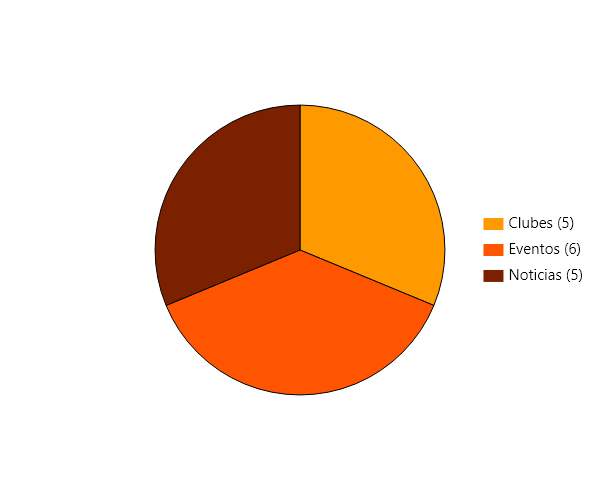
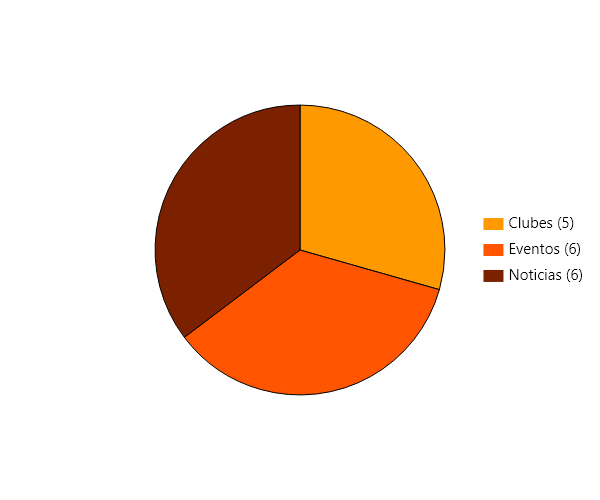
Crear Evento / Crear Noticia CORRECTOSSSSS

Changed region(s): [[0.27, 0.51, 0.48, 0.69], [0.48, 0.48, 0.75, 0.63]]

diff --git a/ReadRate_e4Gen/WebApplication-ReadRate/Controllers/EventoController.cs b/ReadRate_e4Gen/WebApplication-ReadRate/Controllers/EventoController.cs
@@ -148,25 +148,22 @@ namespace WebApplication_ReadRate.Controllers
             {
                 ModelState.Remove("Foto");
                 ModelState.Remove("FotoFichero");
+                ModelState.Remove("AdminPublicadorID"); // Remover validación ya que se asigna automáticamente
+                ModelState.Remove("AforoActual"); // Remover validación ya que se asigna automáticamente
 
                 if (ModelState.IsValid)
                 {
-                    // Validación de AdminPublicadorId
-                    if (!eventoVM.AdminPublicadorID.HasValue || eventoVM.AdminPublicadorID.Value <= 0)
+                    // Obtener el ID del administrador desde la sesión
+                    var usuarioId = HttpContext.Session.GetInt32("UsuarioId");
+                    if (!usuarioId.HasValue)
                     {
-                        ModelState.AddModelError("AdminPublicadorID", "Ha habido un error, el administrador no existe o tiene ID incorrecto");
-                        RecargarAdministradores();
+                        ModelState.AddModelError("", "Debe iniciar sesión como administrador para crear eventos");
                         return View(eventoVM);
                     }
-
-                    // VALIDACIÓN: Aforo actual no puede ser mayor que aforo máximo
-                    if (eventoVM.AforoActual.HasValue && eventoVM.AforoMaximo.HasValue && 
-                        eventoVM.AforoActual.Value > eventoVM.AforoMaximo.Value)
-                    {
-                        ModelState.AddModelError("AforoActual", $"El aforo actual ({eventoVM.AforoActual.Value}) no puede ser mayor que el aforo máximo ({eventoVM.AforoMaximo.Value})");
-                        RecargarAdministradores();
-                        return View(eventoVM);
-                    }
+                    
+                    // Asignar automáticamente el administrador actual y aforo actual a 0
+                    eventoVM.AdminPublicadorID = usuarioId.Value;
+                    eventoVM.AforoActual = 0;
 
                     // MANEJO DEL ARCHIVO DE FOTO
                     if (eventoVM.FotoFichero != null && eventoVM.FotoFichero.Length > 0)

diff --git a/ReadRate_e4Gen/WebApplication-ReadRate/Controllers/NoticiaController.cs b/ReadRate_e4Gen/WebApplication-ReadRate/Controllers/NoticiaController.cs
@@ -107,13 +107,16 @@ namespace WebApplication_ReadRate.Controllers
 
                 if (ModelState.IsValid)
                 {
-                    // Validación de AdminPublicadorId
-                    if (!noticiaVM.AdminPublicadorID.HasValue || noticiaVM.AdminPublicadorID.Value <= 0)
+                    // Obtener el ID del administrador desde la sesión
+                    var usuarioId = HttpContext.Session.GetInt32("UsuarioId");
+                    if (!usuarioId.HasValue)
                     {
-                        ModelState.AddModelError("AdminPublicadorID", "Ha habido un error, el administrador no existe o tiene ID incorrecto");
-                        RecargarAdministradores();
+                        ModelState.AddModelError("", "Debe iniciar sesión como administrador para crear noticias");
                         return View(noticiaVM);
                     }
+                    
+                    // Asignar automáticamente el administrador actual
+                    noticiaVM.AdminPublicadorID = usuarioId.Value;
 
                     // Manejo del archivo de foto
                     if (noticiaVM.FotoFichero != null && noticiaVM.FotoFichero.Length > 0)

diff --git a/README.md b/README.md
@@ -7,13 +7,6 @@
 
 Para acceder a la aplicación, puedes utilizar las siguientes credenciales de prueba:
 
-### 👨💼 Administrador
-- **Email:** `admin@email.com`
-- **Contraseña:** `passAdmin1`
-
-### ✍ Autor
-- **Email:** `leighbardugo@email.com`
-- **Contraseña:** `passLeigh`
 
 ### 📖 Lectores
 - **Email:** `marina.lectora@email.com`
@@ -21,6 +14,14 @@ Para acceder a la aplicación, puedes utilizar las siguientes credenciales de pr
   
 - **Email:** `niko.lector@email.com`
   - **Contraseña:** `passNiko`
+
+### ✍ Autor
+- **Email:** `lucymontgomery@email.com`
+- **Contraseña:** `passLucy`
+
+### 👨💼 Administrador
+- **Email:** `admin@email.com`
+- **Contraseña:** `passAdmin1`
 
 > **Nota**: Para acceder con otros usuarios, consulta el script `CreateDB.cs` para obtener las contraseñas.
 
